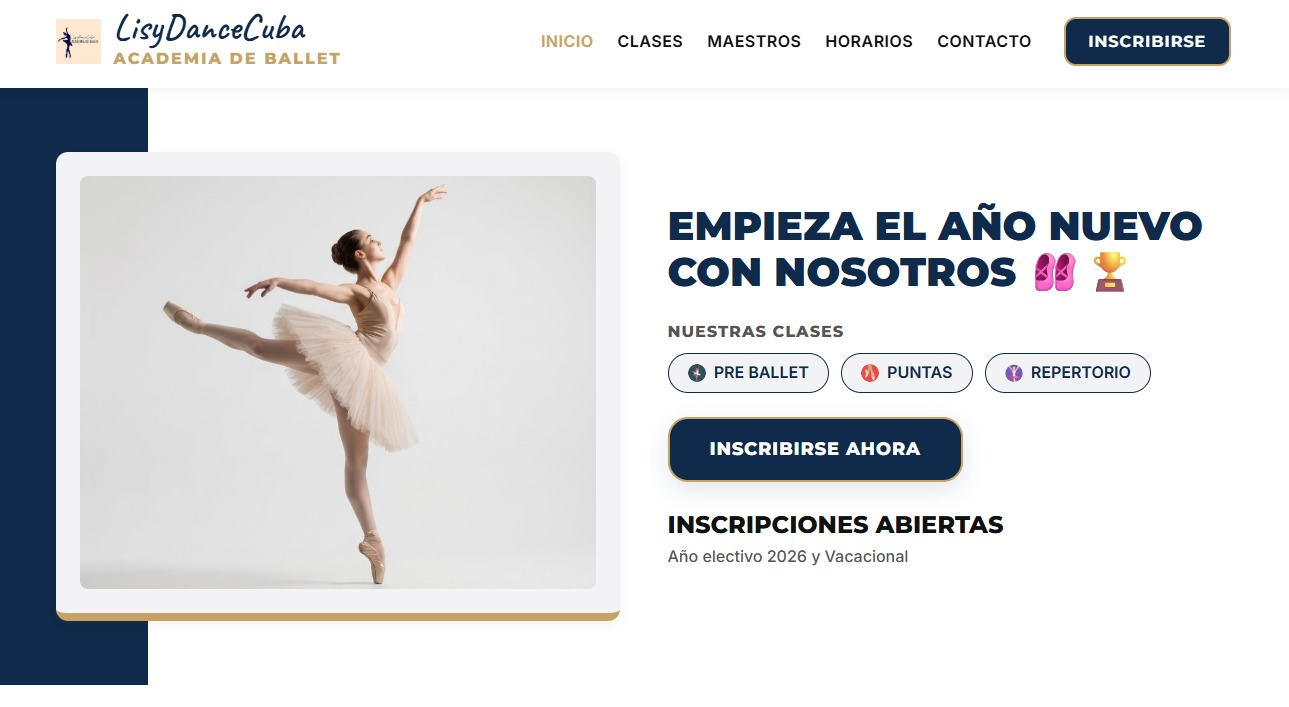
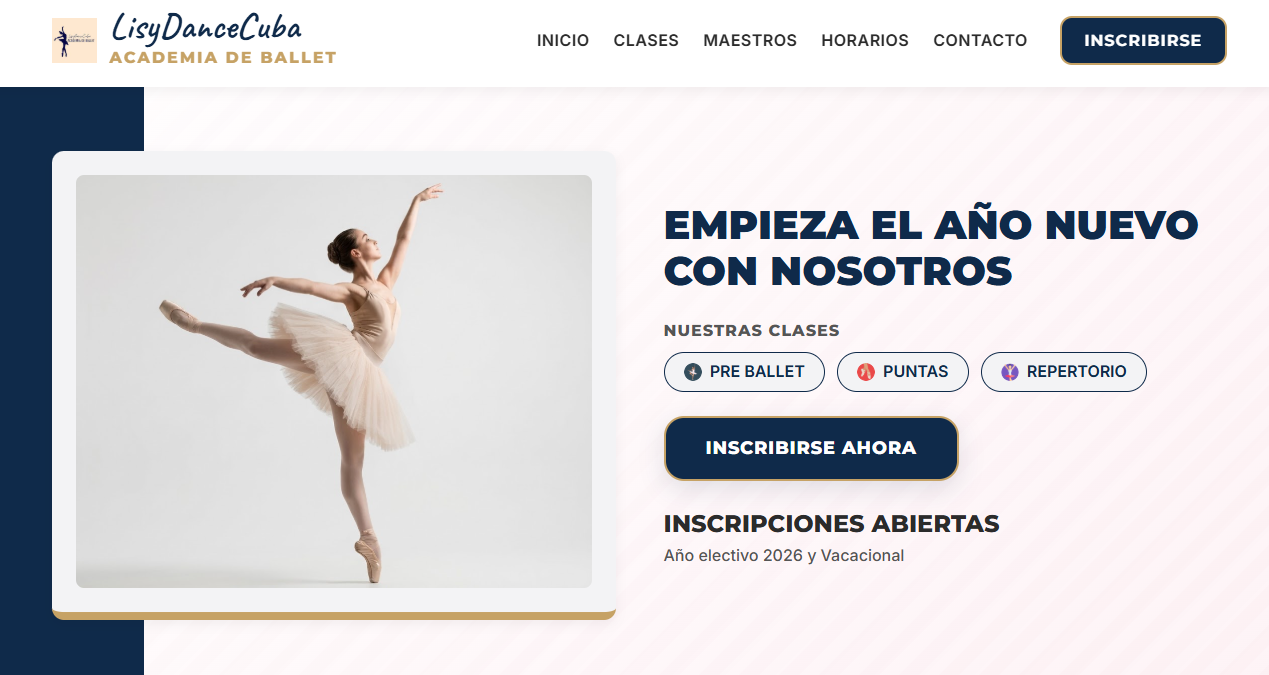
mejorando imagenes

diff --git a/index.html b/index.html
@@ -2,11 +2,58 @@
 <html lang="es">
   <head>
     <meta charset="UTF-8" />
+
     <meta name="viewport" content="width=device-width, initial-scale=1.0" />
 
-    <title>EcuaStack | Páginas Web y Landing Pages Comerciales</title>
-  </head>
+    <meta
+      name="description"
+      content="Creamos páginas web profesionales, landing pages y sitios comerciales rápidos, modernos y optimizados para atraer clientes."
+    />
 
+    <meta
+      name="keywords"
+      content="páginas web, diseño web, landing pages, desarrollo web, sitios web, páginas web para negocios, páginas web Ecuador"
+    />
+
+    <meta name="author" content="EcuaStack" />
+
+    <meta name="robots" content="index, follow" />
+
+    <meta name="theme-color" content="#0067b8" />
+
+    <!-- Favicon -->
+    <link rel="icon" type="image/x-icon" href="/img/logo.ico" />
+
+    <title>EcuaStack | Páginas Web y Landing Pages para Negocios</title>
+
+    <!-- Open Graph -->
+    <meta
+      property="og:title"
+      content="EcuaStack | Páginas Web y Landing Pages para Negocios"
+    />
+
+    <meta
+      property="og:description"
+      content="Creamos páginas web profesionales y landing pages diseñadas para mostrar tu negocio y convertir visitantes en clientes."
+    />
+
+    <meta property="og:type" content="website" />
+
+    <meta property="og:locale" content="es_EC" />
+
+    <!-- Twitter / X -->
+    <meta name="twitter:card" content="summary_large_image" />
+
+    <meta
+      name="twitter:title"
+      content="EcuaStack | Páginas Web y Landing Pages para Negocios"
+    />
+
+    <meta
+      name="twitter:description"
+      content="Páginas web profesionales y landing pages para negocios."
+    />
+  </head>
   <body class="bg-light text-dark d-flex flex-column min-vh-100">
     <!-- =========================================================
          NAVEGACIÓN
@@ -17,7 +64,13 @@
     >
       <div class="container">
         <a class="navbar-brand" href="#" aria-label="ECUA STACK - Inicio">
-          <i class="bi bi-layers-fill" aria-hidden="true"></i>
+          <img
+            src="/img/logo-blanco.png"
+            alt=""
+            class="navbar-brand-logo"
+            aria-hidden="true"
+            width="30px"
+          />
 
           <span> ECUA<span class="navbar-brand-accent">STACK</span> </span>
         </a>
